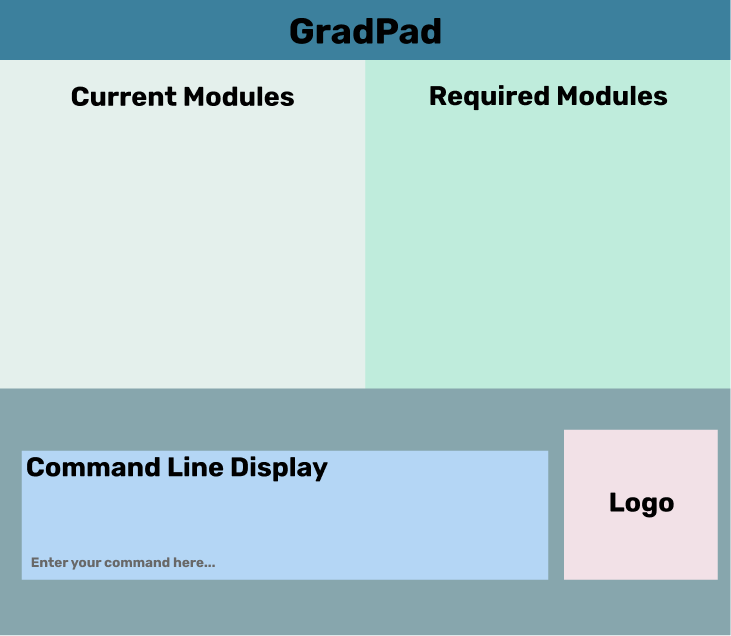
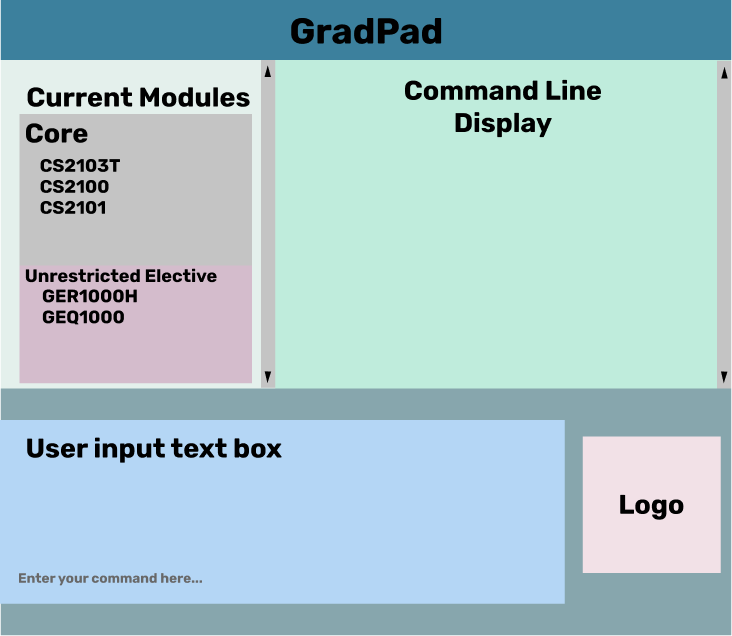
Update Ui.png and add brief description of GradPad to UserGuide

diff --git a/docs/UserGuide.md b/docs/UserGuide.md
@@ -8,6 +8,18 @@ title: User Guide
 {:toc}
 
 --------------------------------------------------------------------------------------------------------------------
+## GradPad
+
+GradPad is a one-stop solution to module management for Computer Science Undergraduates.
+Planning for modules has always been a tedious process but it does not have to be. 
+
+The current approach to planning and tracking graduation requirements is to open up tabs after tabs of NUS resources which can
+be messy at times. So our team has come up with the idea of an easy-to-use, all-in-one application that 
+can ease the process of module management for Computer Science Undergraduates.
+
+GradPad is able to consolidate the modules you have taken and display the remaining required modules to 
+ease your modules planning process. A module searching platform is also included in GradPad, providing easy 
+navigation of modules.
 
 ## Quick start
 
